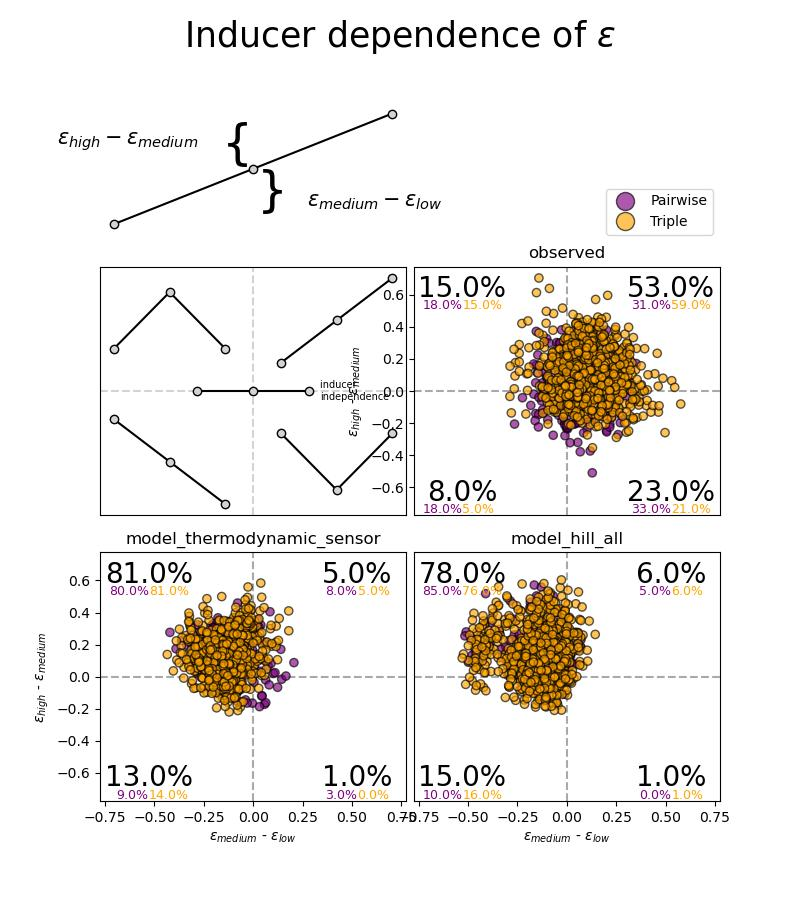
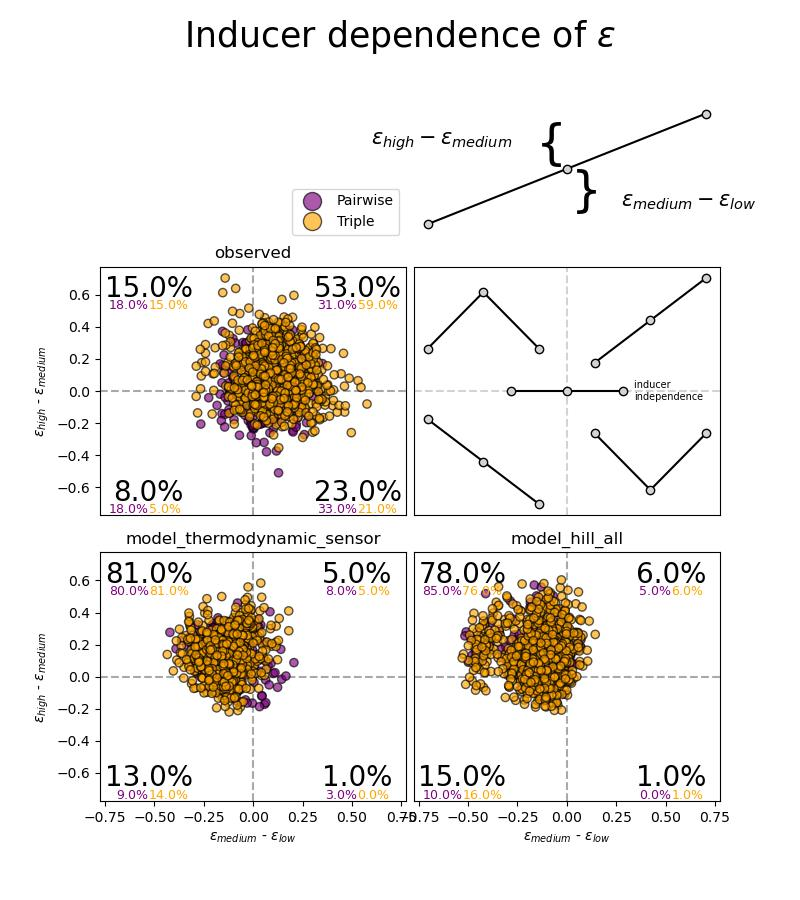
minor fix with indEp

diff --git a/code/Epistasis_inspect.py b/code/Epistasis_inspect.py
@@ -5,7 +5,7 @@ import matplotlib.pyplot as plt
 import matplotlib.patches as patches
 from matplotlib.lines import Line2D
 
-observed = Figures(model = 'model_hill_all',split_pt = False, model_col = 'green') #defined below
+observed = Figures(model = 'model_hill_all',split_pt = False, model_col = model_hill_all_col) #defined below
 
 indEps_observed = indComp(model1 = 'model_thermodynamic_sensor', model2 = "model_hill_all")
 
@@ -181,10 +181,11 @@ def indComp(model1:str='model_hill_all', model2:str = 'model_thermodynamic_senso
         return axis_lim
     
     #define figure for scatter plots to go onto
+    #%%
     fig = plt.figure(figsize=(8, 9))
-    ax_key1 = plt.subplot2grid(shape=(22, 14), loc=(0, 0), rowspan = 4, colspan=7)
-    ax_key2 = plt.subplot2grid(shape=(22, 14), loc=(5, 0), rowspan = 8, colspan = 7)
-    ax_obs = plt.subplot2grid(shape=(22, 14), loc=(5, 7), rowspan = 8, colspan = 7)
+    ax_key1 = plt.subplot2grid(shape=(22, 14), loc=(0, 7), rowspan = 4, colspan=7)
+    ax_key2 = plt.subplot2grid(shape=(22, 14), loc=(5, 7), rowspan = 8, colspan = 7)
+    ax_obs = plt.subplot2grid(shape=(22, 14), loc=(5, 0), rowspan = 8, colspan = 7)
     ax_1 = plt.subplot2grid(shape=(22, 14), loc=(14,0), rowspan = 8, colspan = 7)
     ax_2 = plt.subplot2grid(shape=(22,14), loc=(14, 7), rowspan = 8, colspan = 7)
 
@@ -243,12 +244,12 @@ def indComp(model1:str='model_hill_all', model2:str = 'model_thermodynamic_senso
 
     #plot a key for the inducer dependence plot
     x = np.array([1/6, 0.5, 5/6])
-    y_peak = np.array([0.3, 0.7, 0.3])
+    y_trough = np.array([0.7, 0.3, 0.7])
     y_up = np.array([0.2, 0.5, 0.8])
     def plot(ax, x,y):
         return ax.plot(x,y, marker= 'o', markerfacecolor= 'lightgray',c= 'k', linestyle='-')
-    plot(ax_key2, -1*x,y_peak)
-    plot(ax_key2, x, -1*y_peak)
+    plot(ax_key2,x,(-1)*y_trough)
+    plot(ax_key2, (-1)*x, y_trough)
     plot(ax_key2, x, y_up)
     plot(ax_key2, -1*x, -1*np.flip(y_up))
     plot(ax_key1, x, y_up)
@@ -261,6 +262,7 @@ def indComp(model1:str='model_hill_all', model2:str = 'model_thermodynamic_senso
     ax_key1.text(0.63, 0.32, '$\epsilon_{medium} - \epsilon_{low}$', verticalalignment='center', horizontalalignment='left', size = 15, c= 'k')
     ax_key2.text(0.4,0, 'inducer \nindependence', size = '7', verticalalignment = 'center')
     fig.suptitle('Inducer dependence of $\epsilon$', size = 25)
+    #%%
     fig.savefig(f"../results/indComp.jpg")
     return fig
 
